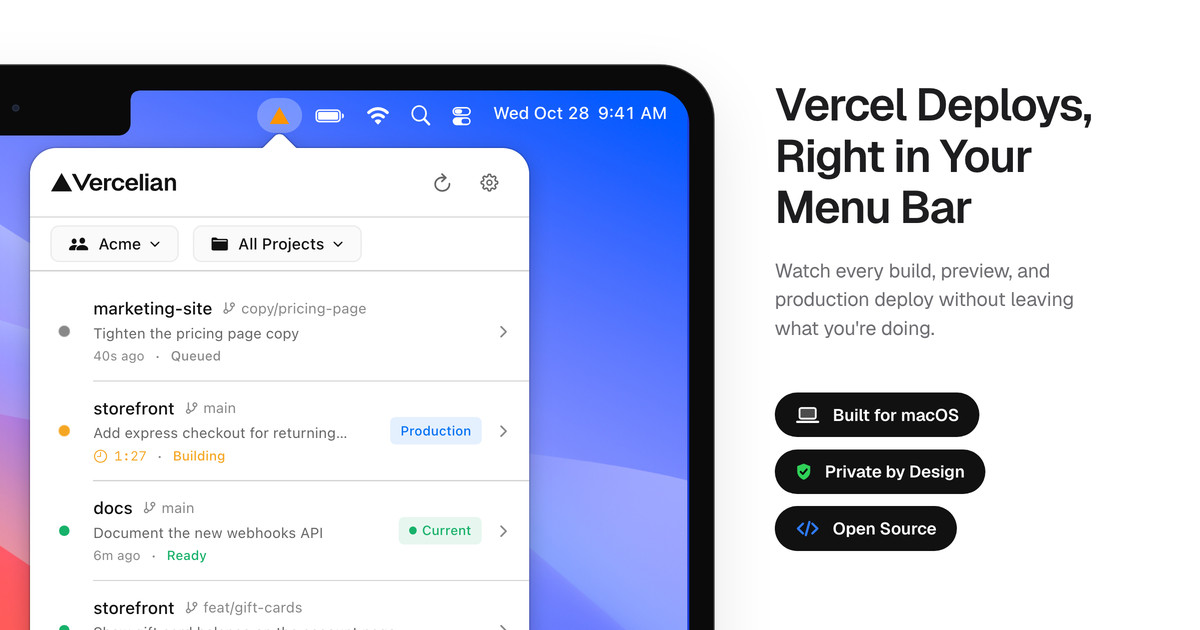
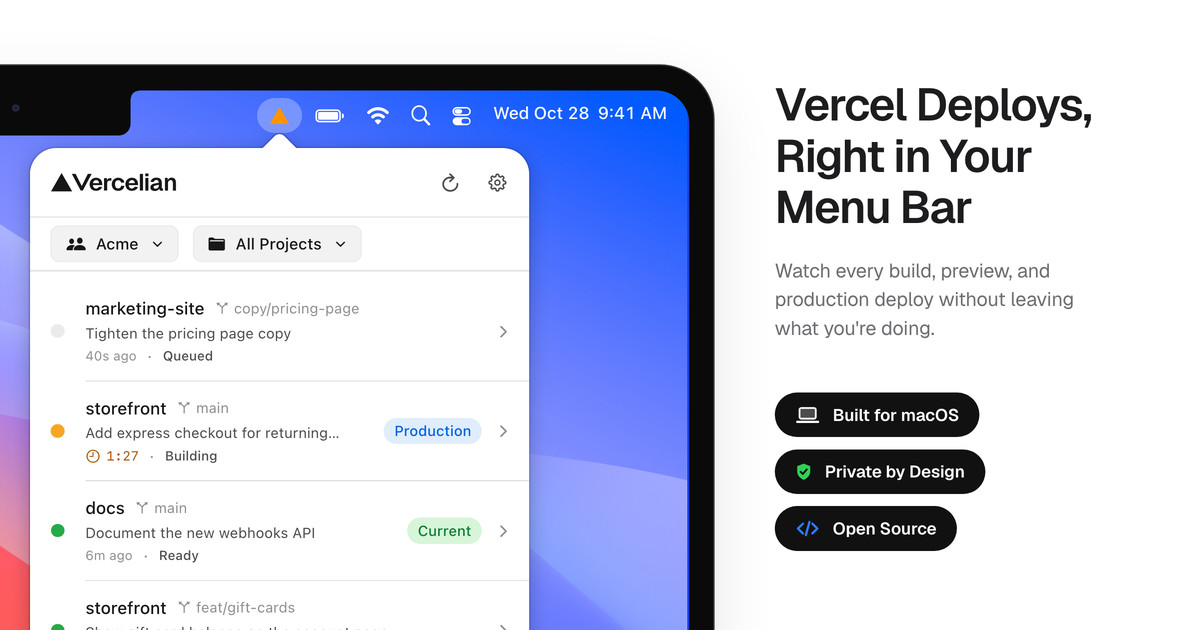
Refresh the preview and OG images
The README's and the site's preview, and the OG card, show the app's new
design. The OG image's version goes up so link previews fetch it again.

diff --git a/website/public/index.html b/website/public/index.html
@@ -16,7 +16,7 @@
   <meta property="og:url" content="https://vercelian.co/">
   <meta property="og:title" content="Vercelian · Vercel deployments in your Mac menu bar">
   <meta property="og:description" content="A native Mac app that shows your Vercel deployments live in the menu bar and alerts you the moment a build fails.">
-  <meta property="og:image" content="https://vercelian.co/assets/og.jpg?v=6">
+  <meta property="og:image" content="https://vercelian.co/assets/og.jpg?v=7">
   <meta property="og:image:width" content="1200">
   <meta property="og:image:height" content="630">
   <meta property="og:image:alt" content="Vercelian's popover open under a MacBook's menu bar, listing queued, building, and ready deployments, beside the headline “Vercel Deploys, Right in Your Menu Bar” and badges for macOS, privacy, and open source">

diff --git a/website/public/privacy.html b/website/public/privacy.html
@@ -16,7 +16,7 @@
   <meta property="og:url" content="https://vercelian.co/privacy">
   <meta property="og:title" content="Privacy Policy · Vercelian">
   <meta property="og:description" content="What Vercelian keeps on your Mac and sends to Vercel. In short: it collects nothing.">
-  <meta property="og:image" content="https://vercelian.co/assets/og.jpg?v=6">
+  <meta property="og:image" content="https://vercelian.co/assets/og.jpg?v=7">
   <meta property="og:image:width" content="1200">
   <meta property="og:image:height" content="630">
   <meta property="og:image:alt" content="Vercelian's popover open under a MacBook's menu bar, listing queued, building, and ready deployments, beside the headline “Vercel Deploys, Right in Your Menu Bar” and badges for macOS, privacy, and open source">
